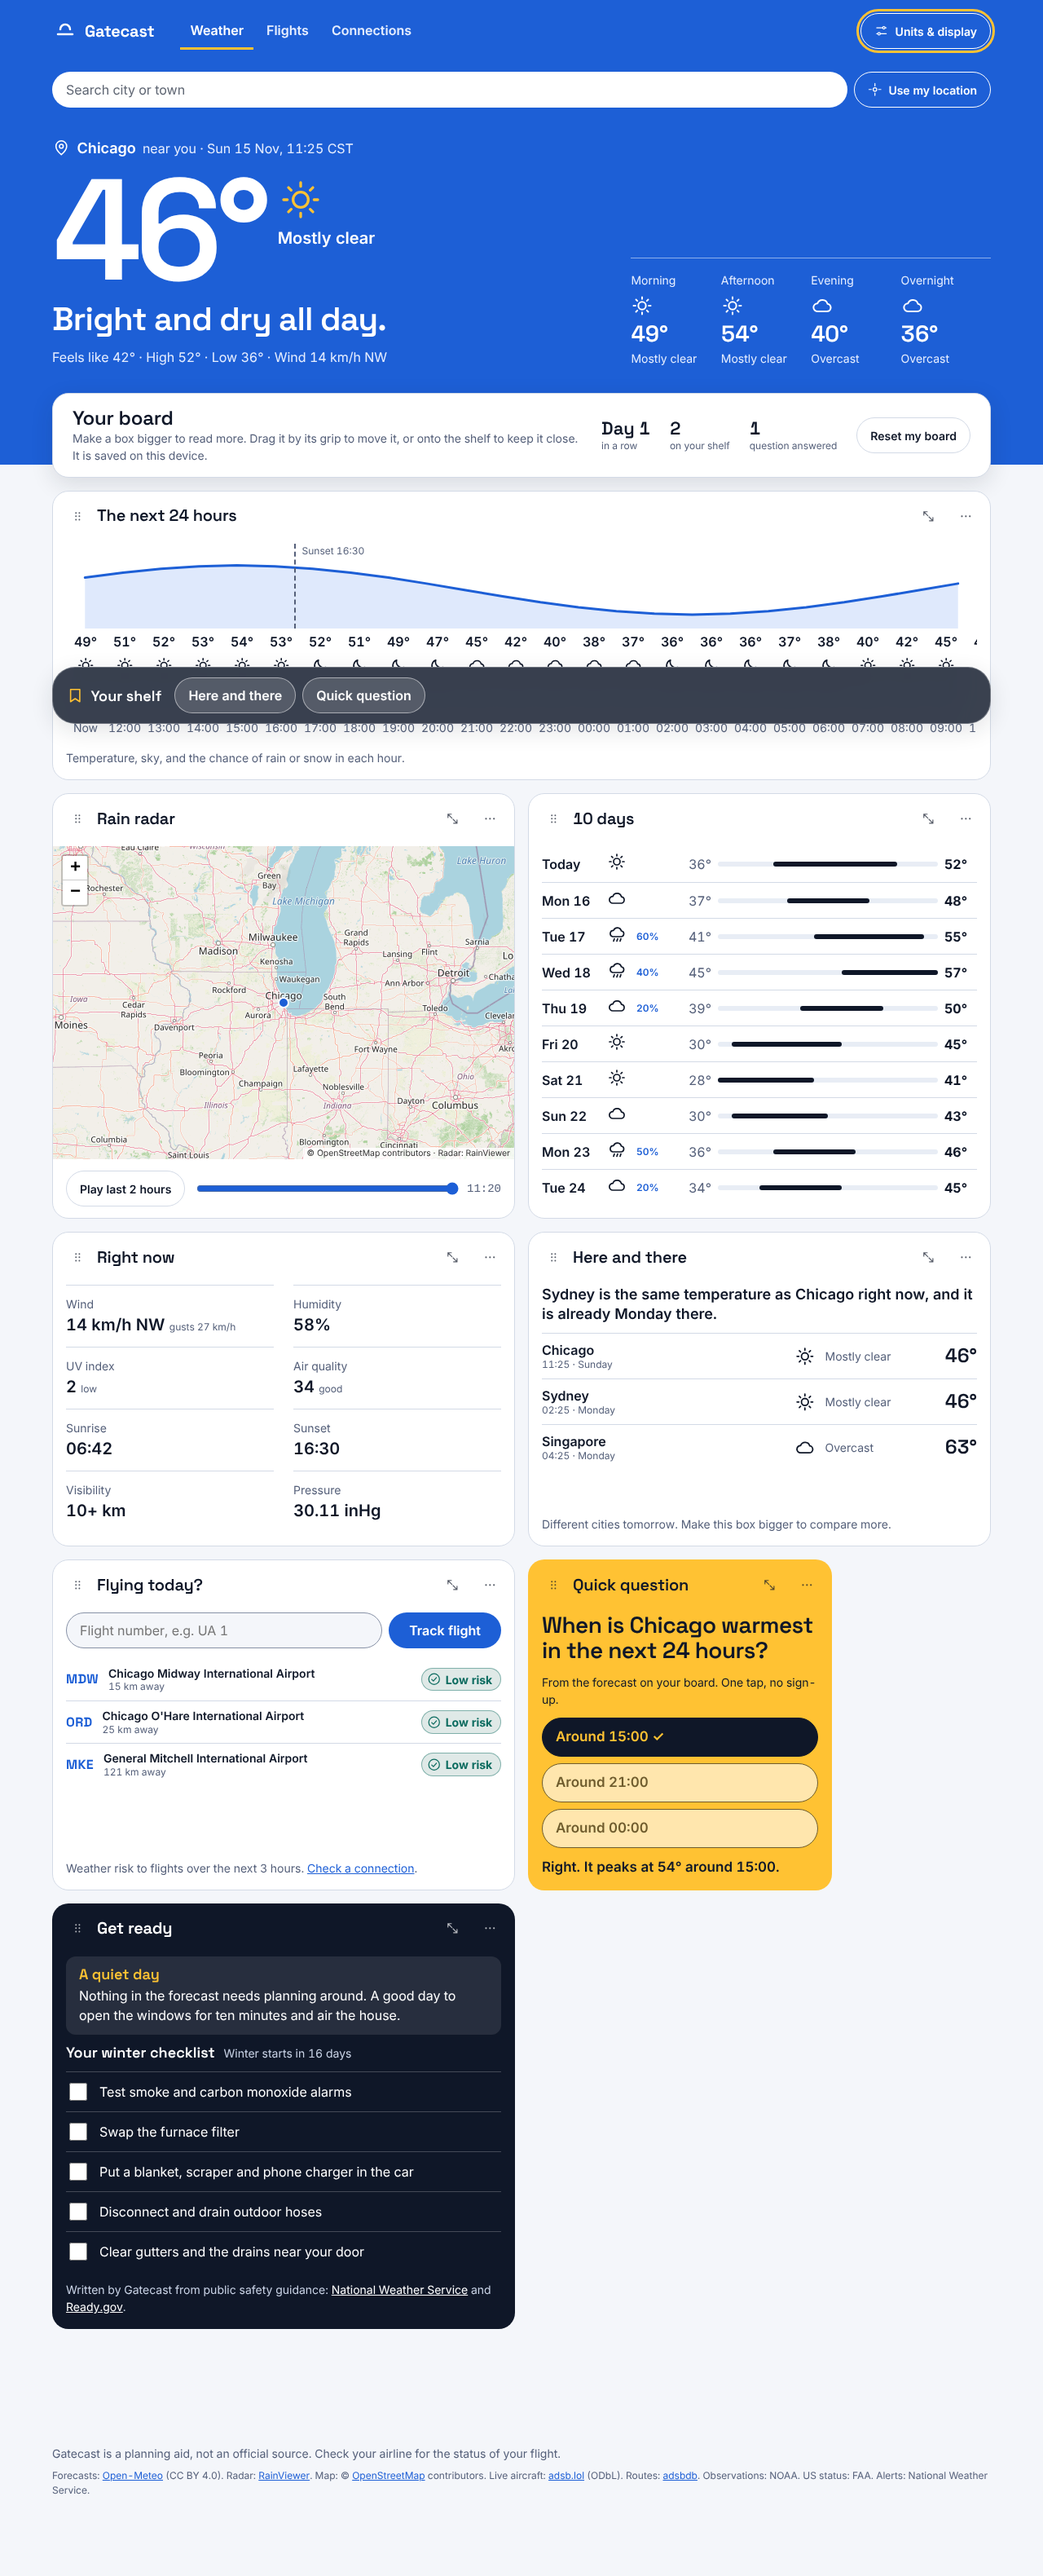
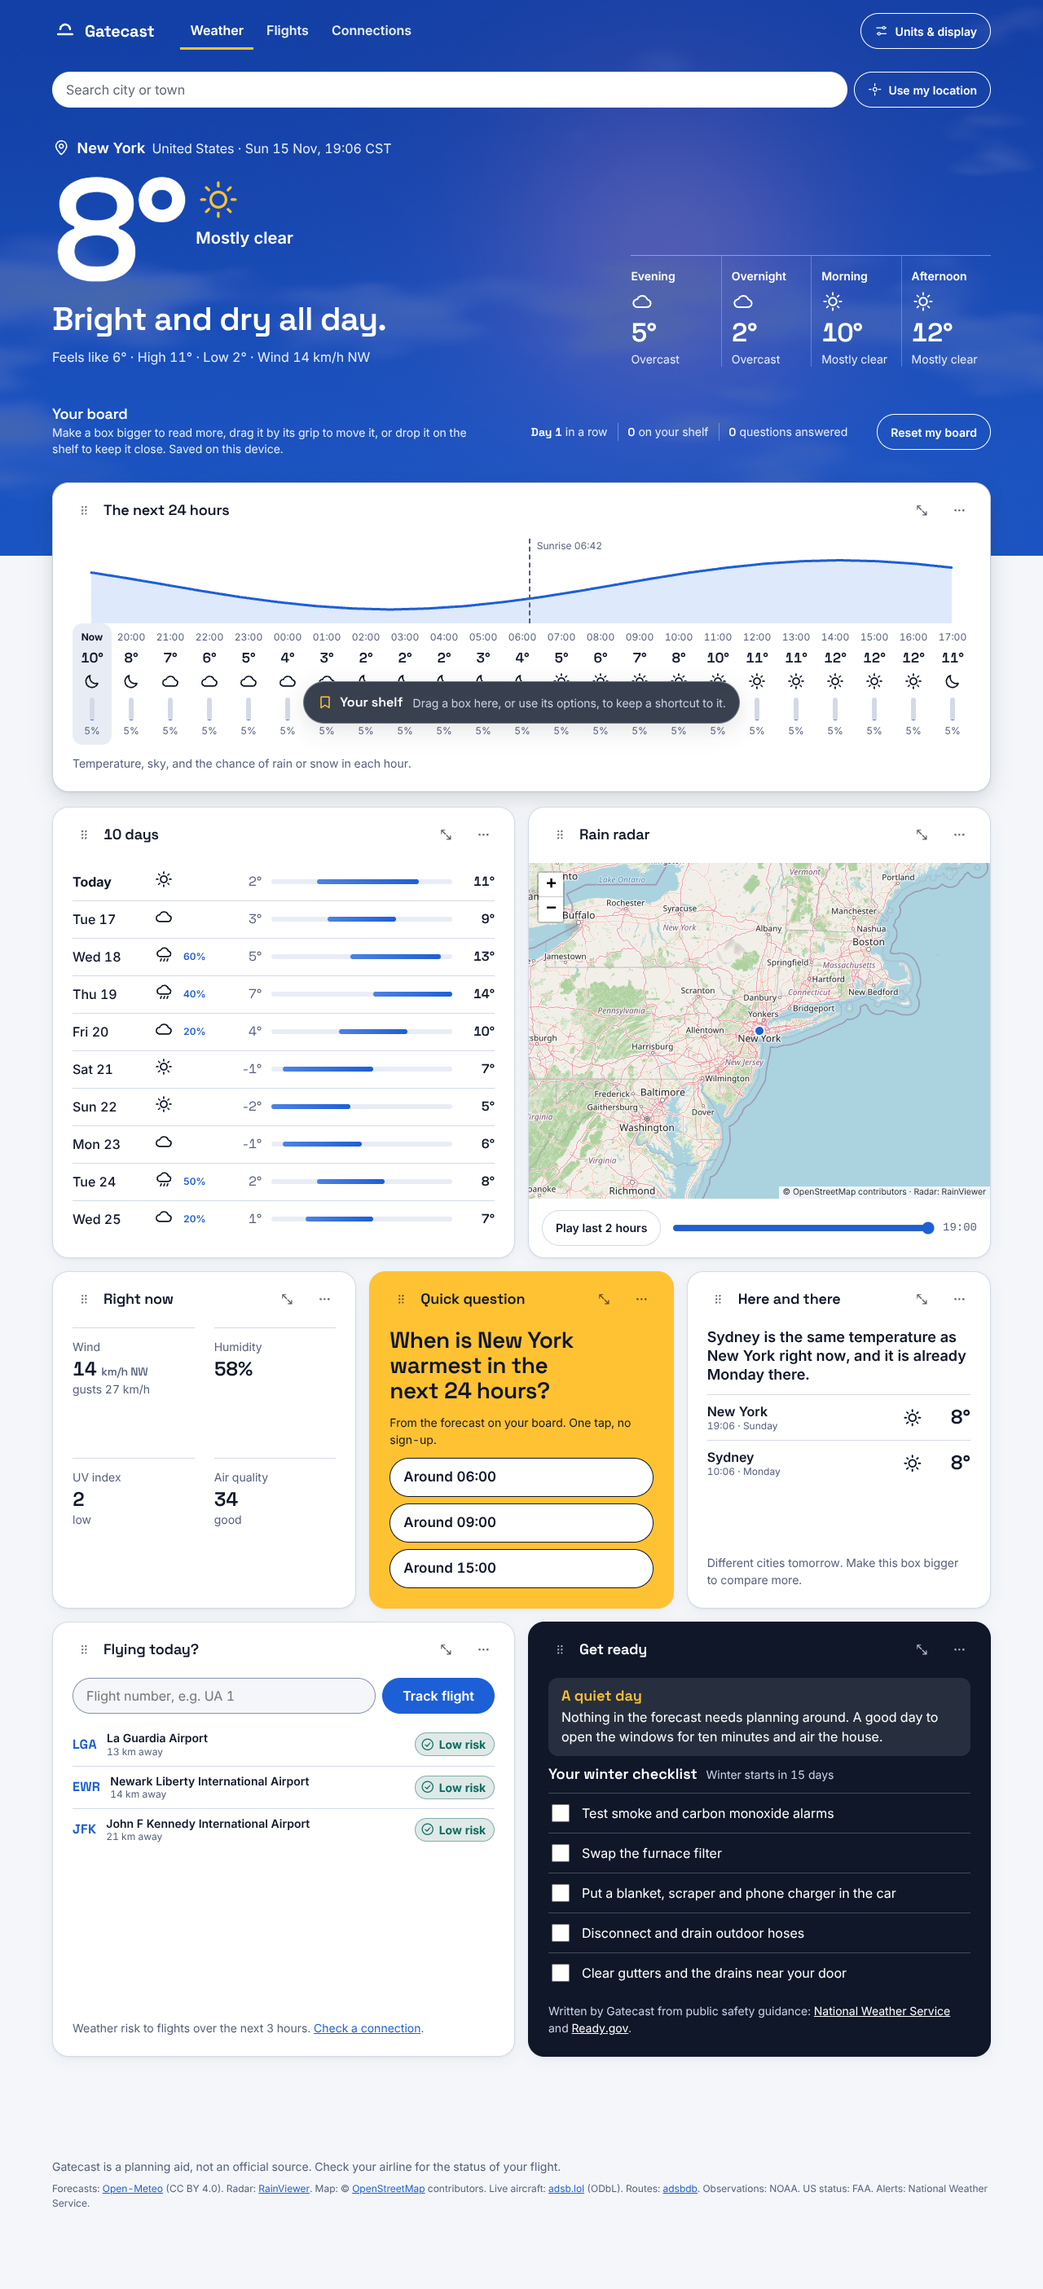
Add WebGL animated sky, motion layer and design polish to the weather home
- WebGL sky behind the header for day, night, cloud, rain, snow and
  storm, with brightness capped for text contrast, a flat-colour
  fallback, a still frame under reduced motion, and pausing offscreen
- Motion layer: lifted drag with boxes gliding aside, growing and
  shrinking on resize, first-load arrival, glass sheet entrance and
  exit, quiz and shelf reactions; all instant under reduced motion
- Design polish: pedestal moved into the sky as a quiet line, compact
  shelf pill, hours with time first, refined 10-day rows, boxes that
  fill their height, bottom-sheet options on phones, steadier loading
- Dropping a box on the shelf pins it without moving it
- Quiz focus moves to the result after answering

Claude-Session: https://claude.ai/code/session_0163CSD6JHmxtFLsAYafLDua

diff --git a/js/weather.js b/js/weather.js
@@ -257,7 +257,7 @@ function renderHero() {
         <div class="hero-wx__cond">${weatherIcon(now.code, now.day, 'wx--hero')}<p>${esc(describeCode(now.code).text)}</p></div>
       </div>
       <h1>${esc(headline(wx, f))}</h1>
-      <p class="hero-wx__meta">Feels like ${f.temp(now.feels)} · High ${f.temp(today.max)} · Low ${f.temp(today.min)} · Wind ${f.speed(now.wind)} ${compass(now.dir)}</p>
+      <p class="hero-wx__meta"><span class="nw">Feels like ${f.temp(now.feels)}</span> · <span class="nw">High ${f.temp(today.max)}</span> · <span class="nw">Low ${f.temp(today.min)}</span> · <span class="nw">Wind ${f.speed(now.wind)} ${compass(now.dir)}</span></p>
     </div>
     <ul class="hero-wx__parts" aria-label="The day ahead">
       ${dayparts(wx).map((part) => `<li><span>${part.name}</span>${weatherIcon(part.code, part.day)}<b>${f.temp(part.temp)}</b><span>${esc(part.text)}</span></li>`).join('')}
@@ -386,7 +386,7 @@ const BODY = {
     const hours = wx.hours.slice(0, n);
     const cols = hours.map((h, i) => {
       const sr = `${f.time(h.t)}: ${describeCode(h.code).text}, ${f.temp(h.temp)}, ${h.pop ?? 0}% chance of rain or snow`;
-      return `<li title="${esc(sr)}"><b>${f.temp(h.temp)}</b>${weatherIcon(h.code, h.day)}<span class="hcol__pop"><i style="--v:${h.pop ?? 0}"></i>${h.pop ?? 0}%</span><span>${i === 0 ? 'Now' : f.time(h.t)}</span><span class="sr-only">${esc(sr)}</span></li>`;
+      return `<li${i === 0 ? ' class="is-now"' : ''} title="${esc(sr)}"><span class="hcol__time">${i === 0 ? 'Now' : f.time(h.t)}</span><b>${f.temp(h.temp)}</b>${weatherIcon(h.code, h.day)}<span class="hcol__pop"><i style="--v:${h.pop ?? 0}"></i>${h.pop ?? 0}%</span><span class="sr-only">${esc(sr)}</span></li>`;
     }).join('');
     let curve = '';
     if (size === 'l') {
@@ -410,7 +410,7 @@ const BODY = {
     return `<ol class="days">${days.map((x, i) => {
       const name = i === 0 ? 'Today' : new Intl.DateTimeFormat('en-GB', { timeZone: f.tz, weekday: 'short', day: 'numeric' }).format(x.t + 12 * HOUR);
       const wet = (x.pop ?? 0) >= 20;
-      return `<li class="day"><span class="day__name">${name}</span>
+      return `<li class="day${i === 0 ? ' is-today' : ''}"><span class="day__name">${name}</span>
         <span class="day__sky">${weatherIcon(x.code, 1)}<span class="sr-only">${esc(describeCode(x.code).text)}</span></span>
         <span class="day__pop">${wet ? `${x.pop}%` : ''}<span class="sr-only">${wet ? ' chance of rain or snow' : 'Dry'}</span></span>
         <span class="day__min"><span class="sr-only">Low </span>${f.temp(x.min)}</span>
@@ -431,15 +431,18 @@ const BODY = {
     const { wx } = current, f = fmt(), now = wx.now, today = wx.days[0];
     const UV = (v) => (v == null ? '' : v < 3 ? 'low' : v < 6 ? 'moderate' : v < 8 ? 'high' : v < 11 ? 'very high' : 'extreme');
     const AQI = (v) => (v <= 50 ? 'good' : v <= 100 ? 'moderate' : v <= 150 ? 'poor for sensitive groups' : v <= 200 ? 'unhealthy' : 'very unhealthy');
-    const stat = (k, v, note = '') => `<div><dt>${k}</dt><dd>${v}${note ? ` <small>${note}</small>` : ''}</dd></div>`;
-    const pressure = prefs.temp === 'f' ? `${(now.pressure * 0.02953).toFixed(2)} inHg` : `${Math.round(now.pressure)} hPa`;
+    // value, then an optional small unit, then an optional small note
+    const stat = (k, v, unit = '', note = '') => `<div><dt>${k}</dt><dd>${v}${unit ? ` <span class="stats__unit">${unit}</span>` : ''}${note ? ` <small>${note}</small>` : ''}</dd></div>`;
+    const split = (text) => { const i = String(text).indexOf(' '); return i < 0 ? [text, ''] : [text.slice(0, i), text.slice(i + 1)]; };
+    const pressure = prefs.temp === 'f' ? [(now.pressure * 0.02953).toFixed(2), 'inHg'] : [Math.round(now.pressure), 'hPa'];
+    const vis = split(f.u.vis(now.vis));
     const items = [
-      stat('Wind', `${f.speed(now.wind)} ${compass(now.dir)}`, `gusts ${f.speed(now.gust)}`),
+      stat('Wind', f.u.speedVal(now.wind), `${f.u.speedUnit} ${compass(now.dir)}`, `gusts ${f.speed(now.gust)}`),
       stat('Humidity', `${Math.round(now.humidity)}%`),
-      stat('UV index', today.uv == null ? '–' : Math.round(today.uv), UV(today.uv)),
-      wx.air ? stat('Air quality', wx.air.aqi, AQI(wx.air.aqi)) : stat('Visibility', f.u.vis(now.vis)),
+      stat('UV index', today.uv == null ? '–' : Math.round(today.uv), '', UV(today.uv)),
+      wx.air ? stat('Air quality', wx.air.aqi, '', AQI(wx.air.aqi)) : stat('Visibility', vis[0], vis[1]),
       stat('Sunrise', f.time(today.sunrise)), stat('Sunset', f.time(today.sunset)),
-      wx.air ? stat('Visibility', f.u.vis(now.vis)) : '', stat('Pressure', pressure),
+      wx.air ? stat('Visibility', vis[0], vis[1]) : '', stat('Pressure', pressure[0], pressure[1]),
     ].filter(Boolean);
     return `<dl class="stats">${items.slice(0, size === 's' ? 4 : 8).join('')}</dl>`;
   },
@@ -452,7 +455,7 @@ const BODY = {
     return `<h3 class="quiz__q">${esc(q.question)}</h3>
       <p class="quiz__from">From the forecast on your board. One tap, no sign-up.</p>
       <div class="quiz__opts">${q.options.map((o, i) => `<button type="button" data-quiz="${i}"${done ? ' disabled' : ''} class="${done && i === q.correct ? 'is-correct' : done && i === picked ? 'is-wrong' : ''}">${esc(o)}${done && i === q.correct ? '<span class="sr-only"> (correct)</span>' : ''}</button>`).join('')}</div>
-      <p class="quiz__result" role="status">${done ? `${picked === q.correct ? 'Right.' : 'Not quite.'} ${esc(q.explain)}` : ''}</p>
+      <p class="quiz__result" role="status" tabindex="-1">${done ? `${picked === q.correct ? 'Right.' : 'Not quite.'} ${esc(q.explain)}` : ''}</p>
       ${size !== 's' ? '<p class="tile__note">A new question from your forecast every day.</p>' : ''}`;
   },
 
@@ -524,7 +527,9 @@ boardEl.addEventListener('click', (e) => {
     stats.answered += 1; store.set('gatecast:stats', stats);
     paint('quiz'); renderPedestal();
     react(tileEl('quiz'), 'just-answered');
-    announce($('.quiz__result', tileEl('quiz')).textContent);
+    const result = $('.quiz__result', tileEl('quiz'));
+    result.focus({ preventScroll: true }); // repainting the box dropped focus; put it on the answer
+    announce(result.textContent);
   }
 });
 boardEl.addEventListener('change', (e) => {
@@ -650,12 +655,17 @@ function endDrag(e, cancelled) {
     d.lift.settle(d.el, reveal);
     return;
   }
-  saveBoard();
   if (overShelf) {
+    // Pinning is not moving: put the boxes back where they were before the drag crossed them.
+    if (board.order.join() !== d.startOrder) {
+      board.order = d.startOrder.split(',');
+      flip(allTiles(), applyOrder, { scale: false });
+    }
     toggleShelf(d.id, true);
     d.lift.flyTo($(`[data-jump="${d.id}"]`, shelfEl), d.el, reveal);
     return;
   }
+  saveBoard();
   d.lift.settle(d.el, reveal);
   if (board.order.join() !== d.startOrder) {
     const vis = visibleOrder();

diff --git a/styles/board.css b/styles/board.css
@@ -139,7 +139,6 @@ html:has(> body.page-weather) { scroll-padding-bottom: 6rem; } /* keeps focused 
 .is-dragging-tile, .is-dragging-tile * { cursor: grabbing !important; user-select: none; }
 .tile__body { display: flex; flex-direction: column; gap: var(--space-3); min-width: 0; flex: 1; }
 .tile__note { font-size: var(--text-sm); color: var(--color-text-muted); margin-top: auto; }
-.drag-chip { position: fixed; top: 0; left: 0; z-index: 20; pointer-events: none; padding: var(--space-2) var(--space-3); border-radius: var(--radius-pill); background: var(--color-on-sun); color: var(--color-on-ink); font-size: var(--text-sm); font-weight: 600; box-shadow: var(--shadow-2); }
 
 /* Next 24 hours */
 .hours2 { overflow-x: auto; scrollbar-width: thin; }
@@ -152,9 +151,9 @@ html:has(> body.page-weather) { scroll-padding-bottom: 6rem; } /* keeps focused 
 .hours2__list { display: grid; grid-template-columns: repeat(var(--n), minmax(3rem, 1fr)); }
 .hours2__list li { display: grid; justify-items: center; gap: var(--space-2); padding: var(--space-2) 0; border-radius: var(--radius-md); font-size: var(--text-sm); color: var(--color-text-muted); }
 /* Time leads each column (it is the index); "Now" is marked by weight and a soft well, not colour alone. */
-.hours2__list li > span:not(.hcol__pop):not(.sr-only) { order: -1; font-size: var(--text-xs); white-space: nowrap; }
-.hours2__list li:first-child { background: var(--color-surface-sunken); }
-.hours2__list li:first-child > span:not(.hcol__pop):not(.sr-only) { font-weight: 700; color: var(--color-text); }
+.hcol__time { font-size: var(--text-xs); white-space: nowrap; }
+.hours2__list li.is-now { background: var(--color-surface-sunken); }
+.hours2__list .is-now .hcol__time { font-weight: 700; color: var(--color-text); }
 .hours2__list b { font-family: var(--font-display); color: var(--color-text); font-size: 1.0625rem; font-weight: 600; line-height: 1; }
 .hours2__list .wx { width: 1.5rem; height: 1.5rem; color: var(--color-text); }
 .hcol__pop { display: grid; justify-items: center; gap: var(--space-1); font-size: var(--text-xs); }
@@ -164,7 +163,7 @@ html:has(> body.page-weather) { scroll-padding-bottom: 6rem; } /* keeps focused 
 .board .day { grid-template-columns: 4.5rem 1.5rem 2.25rem 2.25rem minmax(2.5rem, 1fr) 2.25rem; column-gap: var(--space-2); min-height: 2.875rem; }
 @container (min-width: 30rem) { .board .day { grid-template-columns: 5.5rem 1.5rem 2.75rem 2.5rem minmax(3rem, 1fr) 2.5rem; column-gap: var(--space-3); } }
 .board .day__name { font-weight: 500; white-space: nowrap; }
-.board .day:first-child .day__name { font-weight: 700; }
+.board .day.is-today .day__name { font-weight: 700; }
 .board .day__min, .board .day__max { font-family: var(--font-display); text-align: right; }
 .board .day__max { font-weight: 600; }
 .board .day__bar { height: 0.375rem; }
@@ -268,3 +267,7 @@ html:has(> body.page-weather) { scroll-padding-bottom: 6rem; } /* keeps focused 
   .sheet__grid { grid-template-columns: minmax(0, 1fr); }
   .sheet__btn { min-height: 3.25rem; }
 }
+
+/* Keep a value and its unit together when a line wraps. */
+.nw { white-space: nowrap; }
+.stats__unit { font-size: var(--text-sm); font-weight: 500; color: var(--color-text-muted); }

diff --git a/docs/design-system.md b/docs/design-system.md
@@ -118,6 +118,29 @@ Current observation ("Right now: …") with the raw METAR behind a disclosure, a
 
 The top of the weather page is one flat colour chosen by the current conditions (`--sky-day`, `--sky-night`, `--sky-cloud`, `--sky-rain`, `--sky-snow`, `--sky-storm`), each dark enough for white text. It holds the navigation, the location bar, the place and time, a very large temperature, one headline sentence that says what the weather is doing and when it changes, and the four parts of the day ahead. It is the only part of the page the visitor cannot move.
 
+### Animated sky (`js/sky.js`, `js/sky/shaders.js`, `styles/sky.css`)
+
+A WebGL canvas behind the sky header draws the weather: a sun glow that follows the time between sunrise and sunset with drifting high cloud by day, stars and a moon at night, layered overcast, rain whose density follows the forecast and whose slant follows the wind, drifting snow, and storm cloud with rare, soft brightening.
+
+- The shader caps brightness so white text keeps at least 4.5:1 contrast everywhere.
+- If WebGL is missing or fails, the canvas stays invisible and the flat sky colour shows.
+- With reduced motion it draws one still frame per change, with no lightning.
+- It renders at no more than 1.5 device pixels per CSS pixel and pauses when the tab is hidden or the sky is scrolled out of view.
+
+### Motion (`styles/motion.css`, `js/motion.js`)
+
+All motion lives in its own layer so it can be tuned or removed without touching layout.
+
+| Moment | What moves |
+|---|---|
+| First forecast | Place, temperature (counts up), sentence, day parts, then the board arrive in sequence in under about 700ms. It does not replay on unit changes. |
+| Dragging a box | A copy lifts under the pointer with a slight tilt and shadow, its place becomes a dashed slot, the others glide aside, and it settles on release. Over the shelf it shrinks into the new shortcut. |
+| Resizing a box | The box grows or shrinks while its contents cross-fade. |
+| Options panel | The glass rises, scales and sharpens; on phones it comes up from the bottom. Exits are faster than entrances. |
+| Quiz answer | The right option pops; a wrong pick shakes once. Ticks and crosses still carry the meaning. |
+
+Everything becomes an instant change under `prefers-reduced-motion`, and only transform, opacity and (sparingly) filter are animated.
+
 ### Board and boxes (`.board`, `.tile`)
 
 Everything below the sky is a box on a six-column grid. Each box has three sizes: small (2 columns), medium (3) and large (6); two-column and one-column layouts apply on tablets and phones. A bigger box shows more: more hours, more days, more stats, more cities, more checklist items.
@@ -138,11 +161,11 @@ A native modal `<dialog>` styled as frosted glass: a translucent surface with a 
 
 ### Shelf (`.shelf`)
 
-A frosted bar pinned to the bottom of the screen holding shortcuts to the boxes the visitor has kept. Selecting one scrolls to that box and outlines it briefly.
+A compact frosted pill pinned to the bottom of the screen holding shortcuts to the boxes the visitor has kept. Selecting one scrolls to that box and outlines it briefly.
 
 ### Pedestal (`.pedestal`)
 
-A card that overlaps the sky and introduces the board: a one-line explanation, the visitor's day streak, shelf count and questions answered, and the reset and show-hidden controls.
+A quiet line inside the sky, under the forecast, that introduces the board: a one-line explanation, the visitor's day streak, shelf count and questions answered, and the reset and show-hidden controls. It is deliberately not a card, so it does not compete with the forecast.
 
 ### Quick question (`.quiz__*`)
 

diff --git a/README.md b/README.md
@@ -27,6 +27,8 @@ node --test tests/*.mjs tests/*.cjs
 | Path | What it does |
 |---|---|
 | `index.html`, `js/weather.js`, `styles/board.css` | Weather home: sky header, the board and its boxes, shelf, options panel |
+| `js/sky.js`, `js/sky/shaders.js`, `styles/sky.css` | WebGL animated sky behind the header, with a flat-colour fallback |
+| `js/motion.js`, `styles/motion.css` | Animation and micro-interactions for the board |
 | `js/boardcontent.js` | Headline sentence, parts of the day, daily question, tips, season checklists, city comparison (pure, unit-tested) |
 | `flights.html`, `js/flights.js` | Flight tracking and airport view |
 | `trip.html`, `js/trip.js` | Connection checker |
